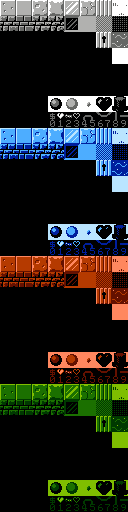
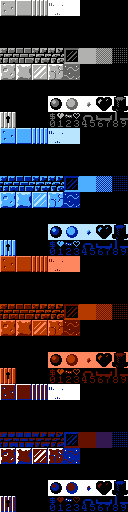
Updating some graphics/etc to match docs

diff --git a/source/configuration/system_constants.h b/source/configuration/system_constants.h
@@ -32,12 +32,14 @@
 #define SPRITE_DIRECTION_UP 0x04
 #define SPRITE_DIRECTION_DOWN 0x00
 
+#define SPRITE_OFFSCREEN 0xfe
+
 // Change this to change how fast sprites animate; values are from 0-6. 0 is fast. 6 is slow.
 #define SPRITE_ANIMATION_SPEED_DIVISOR 3
 
-#define SCREEN_EDGE_LEFT 24
+#define SCREEN_EDGE_LEFT 8
 #define SCREEN_EDGE_RIGHT 240
-#define SCREEN_EDGE_TOP 24 + HUD_PIXEL_HEIGHT
+#define SCREEN_EDGE_TOP 8 + HUD_PIXEL_HEIGHT
 #define SCREEN_EDGE_BOTTOM 220
 
 // Data included before a nametable update if done mid-frame.

diff --git a/source/graphics/hud.h b/source/graphics/hud.h
@@ -6,7 +6,7 @@
 
 #define HUD_TILE_HEART 0xe7
 #define HUD_TILE_HEART_EMPTY 0xe9
-#define HUD_TILE_BLANK 0xf0
+#define HUD_TILE_BLANK 0xf2
 #define HUD_TILE_BORDER_TL 0xea
 #define HUD_TILE_BORDER_TR 0xeb
 #define HUD_TILE_BORDER_BL 0xec
